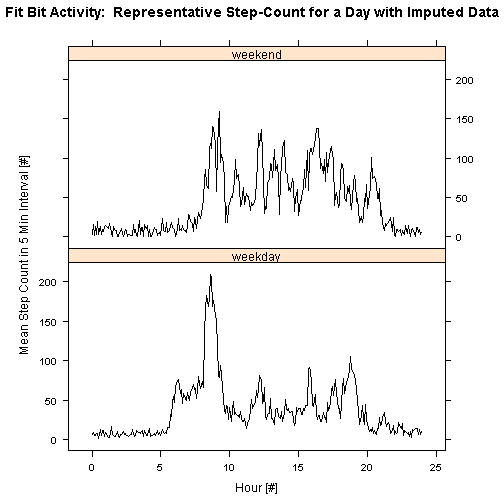
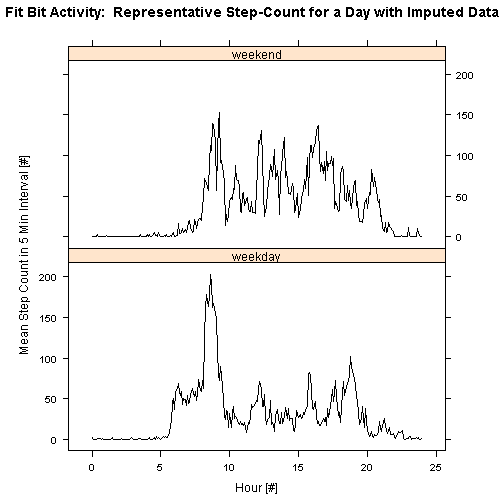
Files processed once more such that imputing of data is manifest in the .md file

diff --git a/PA1_template.html b/PA1_template.html
@@ -305,7 +305,7 @@ library(xtable)
 
 <!-- html table generated in R 3.1.2 by xtable 1.7-4 package -->
 
-<!-- Sat Apr 18 06:44:45 2015 -->
+<!-- Sat Apr 18 07:14:26 2015 -->
 
 <table border=1>
 <tr> <th>  </th> <th> cumDailySteps </th>  </tr>
@@ -331,20 +331,84 @@ library(xtable)
 
 <p>There are technical references that provide guidance for imputing missing values, e.g. <a href="http://www.stat.columbia.edu/%7Egelman/arm/missing.pdf">Missing-data imputation</a>.  For this exercise, a more pedestrian approach is used to impute missing data while reducing bias.</p>
 
-<p>Missing data are replaced with the mean step-count by interval, but offset with a normal distribution with mean 0 and with standard deviation identical to that of the processed data set.  For example, given that the mean 5-min interval step-count is 40 steps with standard deviation 89 steps, a particular instance of missing data could be replaced by the value <strong>98.83806 steps</strong>.  (By using the function <em>max(Random_Replacment, 0)</em>, the minimum replacement value is 0 whenever a random replacement would be negative.  Hence, a positive bias is retained.)  Alternatively, one could randomly select a replacement value from the set of 53 samples for each of the 288 intervals per day.  However, that exercise is left to the reader.</p>
+<p>Missing data are replaced with the mean step-count by interval, but offset with a normal distribution with mean 0 and with standard deviation identical to that of the processed data set.  For example, given that the mean 5-min interval step-count is 40 steps with standard deviation 89 steps, a particular instance of missing data could be replaced by the value <strong>90.2268314 steps</strong>.  (By using the function <em>max(Random_Replacment, 0)</em>, the minimum replacement value is 0 whenever a random replacement would be negative.  Hence, a positive bias is retained.)  Alternatively, one could randomly select a replacement value from the set of 53 samples for each of the 288 intervals per day.  However, that exercise is left to the reader.</p>
+
+<p>The following code block shows the method by which missing data are imputed.  A scale factor is introduced that controls the magnitude of imputed data:</p>
+
+<pre><code class="r">fitBitTblDFimput &lt;- tbl_df(
+    read.csv2(&quot;activity.csv&quot;, sep = &quot;,&quot;, stringsAsFactors = FALSE, na.strings = &quot;NA&quot;,
+              header = TRUE, # colClasses = c(&quot;character&quot;, &quot;numeric&quot;, &quot;numeric&quot;)
+    )
+)  %&gt;%
+    mutate(
+        min = formatC(interval, big.mark=&quot;:&quot;, big.interval=2, width=4, flag = &quot;0&quot;),
+        UTCdate = ymd( paste(date)) + hm(min),
+        dayNum = yday(UTCdate),
+        wDay = wday(UTCdate),
+        hourDec = hour(UTCdate) + minute(UTCdate)/60 + second(UTCdate)/3600
+    ) %&gt;%
+    select(
+        UTCdate, dayNum, wDay, hourDec, steps
+    )
+## Generate a radomized step-count data
+randomized = vector(&quot;numeric&quot;, length = dim(fitBitTblDFimput)[1])
+scaleFactor = 0.65 # scaling factor to reduce upward bias of imputed data
+for (i in 1:dim(fitBitTblDFimput)[1]){
+    randomized[i] = max(0, scaleFactor * as.numeric(strsplit(meanDailyStepsByMin, &quot;:&quot;)[[1]][2]) + 
+                            rnorm(1, mean = 0, sd=
+                                      as.numeric(strsplit(meanDailyStepsSDByMin, &quot;:&quot;)[[1]][2])))
+}
+</code></pre>
+
+<pre><code>## Error in strsplit(meanDailyStepsByMin, &quot;:&quot;): object &#39;meanDailyStepsByMin&#39; not found
+</code></pre>
+
+<pre><code class="r">fitBitTblDFimput &lt;- tbl_df(cbind(fitBitTblDFimput, randomized)) %&gt;%
+    mutate(
+        dayFactor = ifelse(wDay %in% c(2, 3, 4, 5, 6), c(&quot;weekday&quot;), c(&quot;weekend&quot;)),
+        stepsImput = ifelse(is.na(steps), randomized, steps),
+        dayFactor = as.factor(dayFactor)
+    ) %&gt;%
+    select(
+        UTCdate, dayNum, wDay, hourDec, steps, randomized, stepsImput, dayFactor
+    )%&gt;%
+    filter(
+        #         dayNum != 275 &amp; dayNum != 335
+        #         &amp; dayNum != 282 &amp; dayNum != 306 &amp; dayNum != 309 &amp; dayNum != 314 &amp; dayNum != 315 &amp; dayNum != 319
+        #steps != &quot;NA&quot; 
+    )
+#print(fitBitTblDFimput)
+
+## What is meant total number of steps taken per day for imputed data?
+fitBitSummaryDayNumImput &lt;-
+    fitBitTblDFimput %&gt;%
+    group_by(dayNum) %&gt;%
+    summarize(
+        count = n(),
+        meanIntervalStepsImput = mean(stepsImput, na.rm = TRUE),
+        cumDailyStepsImput = sum(stepsImput, na.rm = TRUE)
+    ) %&gt;%
+    arrange(dayNum)
+
+## Six number summary by day for imputed data
+
+summaryNumbersByDayImput &lt;- summary(select(fitBitSummaryDayNumImput,cumDailyStepsImput))
+medianDailyStepsImput &lt;- summaryNumbersByDayImput[3]
+meanDailyStepsImput &lt;- summaryNumbersByDayImput[4]
+</code></pre>
 
 <p>The third figure shows a histogram of the dataset with missing values replaced.
[2 lines of base64/hex data omitted]
 Since positive bias is expected, a scale factor is introduced for moderating the positive bias.  Ultimately, the scale factor was set at 65%.  By inspection of the histogram shown in the third figure, the mean and median step-counts are about 12,000 steps.</p>
 
-<p>From a follow-on Six Number Summary, the mean number of daily steps is <strong>Mean   :11251   steps</strong>, and the median number of daily steps is <strong>Median :11458   steps</strong>.  The reported mean and median are consistent with the histogram of the third figure.</p>
+<p>From a follow-on Six Number Summary, the mean number of daily steps is <strong>Mean   : 9354   steps</strong>, and the median number of daily steps is <strong>Median :10395   steps</strong>.  The reported mean and median are consistent with the histogram of the third figure.</p>
 
 <p>The impact of imputing replacement data is an increase in the mean and median values of 6% from the original dataset.</p>
 
 <h2>Are there differences in activity patterns between weekdays and weekends?</h2>
 
 <p>Like the second figure, the panel plot in the fourth figure shows representative plots of step-counts for a day during the sample period conditional on whether the day is a week day or a weekend day.
[2 lines of base64/hex data omitted]
 Data plotted are from the imputed data set.  Given that the discussion is mostly qualitative, a 6% postive bias for using imputed data is acceptable.  Note the x-axis shows decimal hours instead of interval.  Clearly, the individual is <em>sleeping in</em> for a few hours during the weekend.  However, the most active part of the day is about 8:30AM.  With respect to the rest of the week, peak step-activity during the weekend is reduced by almost 50% from a week day.  <em>Bed time</em> remains consistent throughout the week and is about 9:30PM.</p>
 
 </body>

diff --git a/PA1_template.md b/PA1_template.md
@@ -111,7 +111,7 @@ From the processed data, a Six Number Summary (*summary*) is generated that repo
 
 The Six Number summary is displayed using the R-package *xtable*:
 <!-- html table generated in R 3.1.2 by xtable 1.7-4 package -->
-<!-- Sat Apr 18 06:44:45 2015 -->
+<!-- Sat Apr 18 07:14:26 2015 -->
 <table border=1>
 <tr> <th>  </th> <th> cumDailySteps </th>  </tr>
   <tr> <td align="right"> 1 </td> <td> Min.   :   41   </td> </tr>
@@ -135,13 +135,80 @@ In total, there are 2,304 missing obersations during the sampling period of 61 d
 
 There are technical references that provide guidance for imputing missing values, e.g. [Missing-data imputation](http://www.stat.columbia.edu/~gelman/arm/missing.pdf).  For this exercise, a more pedestrian approach is used to impute missing data while reducing bias.
 
-Missing data are replaced with the mean step-count by interval, but offset with a normal distribution with mean 0 and with standard deviation identical to that of the processed data set.  For example, given that the mean 5-min interval step-count is 40 steps with standard deviation 89 steps, a particular instance of missing data could be replaced by the value **98.83806 steps**.  (By using the function *max(Random_Replacment, 0)*, the minimum replacement value is 0 whenever a random replacement would be negative.  Hence, a positive bias is retained.)  Alternatively, one could randomly select a replacement value from the set of 53 samples for each of the 288 intervals per day.  However, that exercise is left to the reader.
+Missing data are replaced with the mean step-count by interval, but offset with a normal distribution with mean 0 and with standard deviation identical to that of the processed data set.  For example, given that the mean 5-min interval step-count is 40 steps with standard deviation 89 steps, a particular instance of missing data could be replaced by the value **90.2268314 steps**.  (By using the function *max(Random_Replacment, 0)*, the minimum replacement value is 0 whenever a random replacement would be negative.  Hence, a positive bias is retained.)  Alternatively, one could randomly select a replacement value from the set of 53 samples for each of the 288 intervals per day.  However, that exercise is left to the reader.
+
+The following code block shows the method by which missing data are imputed.  A scale factor is introduced that controls the magnitude of imputed data:
+
+```r
+fitBitTblDFimput <- tbl_df(
+    read.csv2("activity.csv", sep = ",", stringsAsFactors = FALSE, na.strings = "NA",
+              header = TRUE, # colClasses = c("character", "numeric", "numeric")
+    )
+)  %>%
+    mutate(
+        min = formatC(interval, big.mark=":", big.interval=2, width=4, flag = "0"),
+        UTCdate = ymd( paste(date)) + hm(min),
+        dayNum = yday(UTCdate),
+        wDay = wday(UTCdate),
+        hourDec = hour(UTCdate) + minute(UTCdate)/60 + second(UTCdate)/3600
+    ) %>%
+    select(
+        UTCdate, dayNum, wDay, hourDec, steps
+    )
+## Generate a radomized step-count data
+randomized = vector("numeric", length = dim(fitBitTblDFimput)[1])
+scaleFactor = 0.65 # scaling factor to reduce upward bias of imputed data
+for (i in 1:dim(fitBitTblDFimput)[1]){
+    randomized[i] = max(0, scaleFactor * as.numeric(strsplit(meanDailyStepsByMin, ":")[[1]][2]) + 
+                            rnorm(1, mean = 0, sd=
+                                      as.numeric(strsplit(meanDailyStepsSDByMin, ":")[[1]][2])))
+}
+```
+
+```
+## Error in strsplit(meanDailyStepsByMin, ":"): object 'meanDailyStepsByMin' not found
+```
+
+```r
+fitBitTblDFimput <- tbl_df(cbind(fitBitTblDFimput, randomized)) %>%
+    mutate(
+        dayFactor = ifelse(wDay %in% c(2, 3, 4, 5, 6), c("weekday"), c("weekend")),
+        stepsImput = ifelse(is.na(steps), randomized, steps),
+        dayFactor = as.factor(dayFactor)
+    ) %>%
+    select(
+        UTCdate, dayNum, wDay, hourDec, steps, randomized, stepsImput, dayFactor
+    )%>%
+    filter(
+        #         dayNum != 275 & dayNum != 335
+        #         & dayNum != 282 & dayNum != 306 & dayNum != 309 & dayNum != 314 & dayNum != 315 & dayNum != 319
+        #steps != "NA" 
+    )
+#print(fitBitTblDFimput)
+
+## What is meant total number of steps taken per day for imputed data?
+fitBitSummaryDayNumImput <-
+    fitBitTblDFimput %>%
+    group_by(dayNum) %>%
+    summarize(
+        count = n(),
+        meanIntervalStepsImput = mean(stepsImput, na.rm = TRUE),
+        cumDailyStepsImput = sum(stepsImput, na.rm = TRUE)
+    ) %>%
+    arrange(dayNum)
+
+## Six number summary by day for imputed data
+
+summaryNumbersByDayImput <- summary(select(fitBitSummaryDayNumImput,cumDailyStepsImput))
+medianDailyStepsImput <- summaryNumbersByDayImput[3]
+meanDailyStepsImput <- summaryNumbersByDayImput[4]
+```
 
 The third figure shows a histogram of the dataset with missing values replaced.
 <img src="figure/histogramImpute-1.png" title="plot of chunk histogramImpute" alt="plot of chunk histogramImpute" style="display: block; margin: auto;" />
 Since positive bias is expected, a scale factor is introduced for moderating the positive bias.  Ultimately, the scale factor was set at 65%.  By inspection of the histogram shown in the third figure, the mean and median step-counts are about 12,000 steps.
 
-From a follow-on Six Number Summary, the mean number of daily steps is **Mean   :11251   steps**, and the median number of daily steps is **Median :11458   steps**.  The reported mean and median are consistent with the histogram of the third figure.
+From a follow-on Six Number Summary, the mean number of daily steps is **Mean   : 9354   steps**, and the median number of daily steps is **Median :10395   steps**.  The reported mean and median are consistent with the histogram of the third figure.
 
 The impact of imputing replacement data is an increase in the mean and median values of 6% from the original dataset.
 
